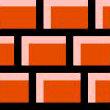
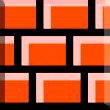
Added a background for tetris field and scoreboard

diff --git a/src/app/games/tetris.cpp b/src/app/games/tetris.cpp
@@ -70,6 +70,16 @@ std::map<TetraminoShape, std::vector<MGVec2<int>>> g_TetraminoStartingPos = {
 	{TetraminoShape::Shape_Z, {{4, 0}, {5, 0}, {5, 1}, {6, 1}}},
 };
 
+std::map<TetraminoShape, MGVec2<int>> g_TetraminoMaxDimensions = {
+	{TetraminoShape::Shape_I, {1, 4}},
+	{TetraminoShape::Shape_J, {2, 3}},
+	{TetraminoShape::Shape_L, {2, 3}},
+	{TetraminoShape::Shape_O, {2, 2}},
+	{TetraminoShape::Shape_S, {3, 2}},
+	{TetraminoShape::Shape_T, {3, 2}},
+	{TetraminoShape::Shape_Z, {3, 2}},
+};
+
 std::uniform_int_distribution<int> g_ShapeRandGen((int)TetraminoShape::Shape_I, (int)TetraminoShape::Shape_Z);
 std::uniform_int_distribution<int> g_ColorRandGen((int)BlockColor::ColorRed, (int)BlockColor::ColorPurple);
 
@@ -131,12 +141,21 @@ void Tetris::drawField()
 	}
 
 	/* Draw field background */
-	if(m_Textures[Texture::FieldBG].IsReady())
+	if(m_Textures[Texture::Block].IsReady())
 	{
-		const ImVec2 bg_size = {Consts::cTetrisFieldWidth - 2 * Consts::cBlockEdgeSize, Consts::cBlockEdgeSize * Consts::cPlayFieldHeight};
-		ImGui::SetCursorPosX(Consts::cBlockEdgeSize);
-		ImGui::SetCursorPosY(0);
-		ImGui::Image((void*)(int64_t)m_Textures[Texture::FieldBG].GetID(), bg_size);
+		for(int i = 0; i < Consts::cPlayFieldHeight; i++)
+		{
+			for(int j = 0; j < Consts::cPlayFieldWidth; j++)
+			{
+				/* X offsets by 1 because of walls */
+				ImGui::SetCursorPosX((float)((j + 1) * Consts::cBlockEdgeSize));
+				ImGui::SetCursorPosY((float)(i * Consts::cBlockEdgeSize));
+				ImGui::Image((void*)(int64_t)m_Textures[Texture::Block].GetID(), block_size,
+						{0, 0}, {1, 1},
+						Vec4Norm(ImVec4(40.f, 40.f, 40.f, 255.f), 255)
+					);
+			}
+		}
 	}
 
 	/* Draw tetramino projection */
@@ -231,6 +250,31 @@ void Tetris::drawScoreBoard()
 	ImGui::SetNextWindowSize(Consts::cTetrisScoreBoardSize);
 	ImGui::Begin("Tetris ScoreBoard", nullptr, WINDOW_BACKGROUND_FLAGS);
 
+	/* Draw scoreboard background */
+	const int width_blocks = 6;
+	const GLuint block_texture_id = m_Textures[Texture::Block].GetID();
+	const float block_edge_size = Consts::cTetrisScoreBoardWidth / (float)width_blocks;
+	const ImVec2 block_size = ImVec2(block_edge_size, block_edge_size);
+	for(int i = 0; i < Consts::cPlayFieldHeight; i++)
+	{
+		for(int j = 0; j < width_blocks; j++)
+		{
+			ImVec4 color = {50.f, 50.f, 50.f, 255.f};
+			if(i >= 10 && i <= 13 && j >= 1 && j <= 4)
+			{
+				/* Window background is transparrent. Draw an invisible black texture */
+				color = {0.f, 0.f, 0.f, 255.f};
+			}
+
+			ImGui::SetCursorPosX((float)(j * block_edge_size));
+			ImGui::SetCursorPosY((float)(i * block_edge_size));
+			ImGui::Image((void*)(int64_t)block_texture_id, block_size,
+					{0, 0}, {1, 1},
+					Vec4Norm(color, 255)
+				);
+		}
+	}
+
 	ImGui::PushFont(m_ScoreBoardFont);
 	{
 		/* Move text a little */
@@ -258,14 +302,15 @@ void Tetris::drawScoreBoard()
 	/* Draw next tetramino */
 	{
 		ImVec2 prev_pos = ImGui::GetCursorPos();
-		const float padding = 50.0f;
-		const float block_edge_size = (Consts::cTetrisScoreBoardWidth - (padding * 2)) / 4.0f;
-		const GLuint block_texture_id = m_Textures[Texture::Block].GetID();
+		int next_block_y = (int)(prev_pos.y / block_edge_size + 1);
+		const MGVec2<int>& tetramino_dim = g_TetraminoMaxDimensions[m_NextTetramino->Shape];
+		float x_offset = (4.f - tetramino_dim.x) / 2.f;
+		float y_offset = (4.f - tetramino_dim.y) / 2.f;
 		for(const auto& block_coord : m_NextTetramino->OccupiedCells)
 		{
-			ImGui::SetCursorPosX(padding + block_edge_size * (block_coord.x - 3));
-			ImGui::SetCursorPosY(prev_pos.y + padding + block_edge_size * block_coord.y);
-			ImGui::Image((void*)(int64_t)block_texture_id, {block_edge_size, block_edge_size},
+			ImGui::SetCursorPosX(block_edge_size * (block_coord.x - 3) + (x_offset * block_edge_size));
+			ImGui::SetCursorPosY(block_edge_size * (block_coord.y + next_block_y) + (y_offset * block_edge_size));
+			ImGui::Image((void*)(int64_t)block_texture_id, block_size,
 				{0, 0}, {1, 1},
 				Vec4Norm(g_BlockColors[m_NextTetramino->Color], 255)
 			);
@@ -904,12 +949,6 @@ void Tetris::OnAttach()
 	if(!m_Textures[Texture::Block].IsReady())
 	{
 		LOG_ERROR("Couldn't load Block texture!");
-	}
-
-	m_Textures[Texture::FieldBG] = Resources::Texture("assets/tetris-field-bg.png");
-	if(!m_Textures[Texture::FieldBG].IsReady())
-	{
-		LOG_ERROR("Couldn't load FieldBG texture!");
 	}
 
 	m_Textures[Texture::BlockProjection] = Resources::Texture("assets/tetris-block-proj.png");

diff --git a/src/app/games/tetris.h b/src/app/games/tetris.h
@@ -23,7 +23,6 @@ enum class Texture
 {
 	Wall,
 	Block,
-	FieldBG,
 	BlockProjection,
 
 	ElementCount
